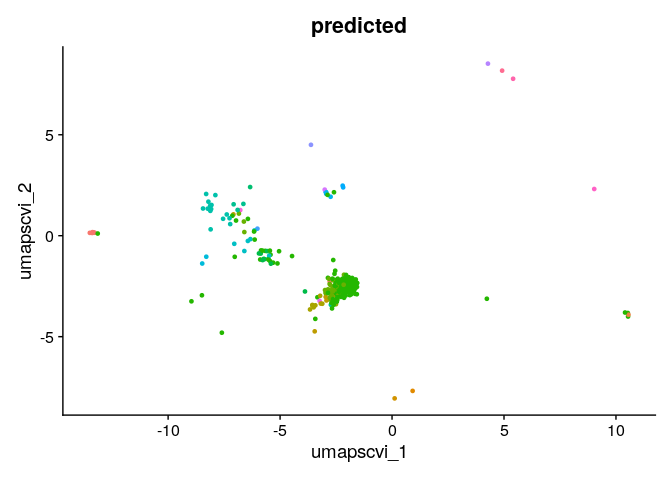
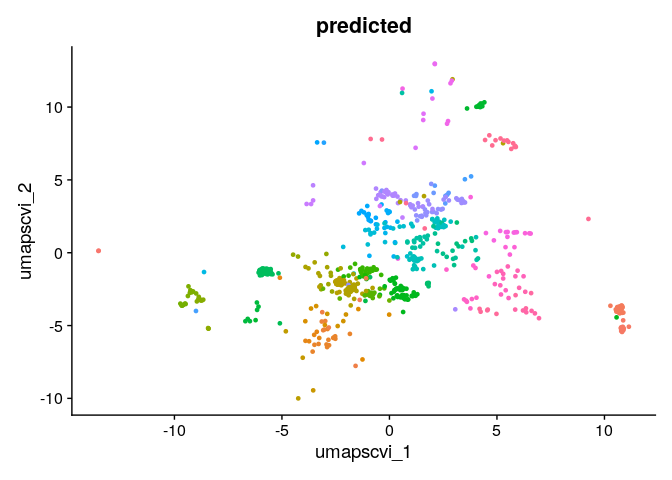
fixed byte related critical bug in python code and updated readme

diff --git a/python/map_scvi.py b/python/map_scvi.py
@@ -26,6 +26,10 @@ adata_query = sc.read_h5ad(query_path)
 str_df = adata_query.obs
 str_df = str_df.applymap(lambda x: x.decode() if isinstance(x, bytes) else x)
 adata_query.obs = str_df
+# same with var slot:
+string_index = pd.Series([i.decode('UTF-8') if isinstance(i, bytes) else i for i in adata_query.var.index.to_list()])
+adata_query.var = adata_query.var.assign(features=string_index.values)
+adata_query.var = adata_query.var.set_index(keys=string_index)
 
 #print("online update")
 model_path = str(model_path)
@@ -35,7 +39,7 @@ print("using model stored at: "+model_path)
 vae_q = scvi.model.SCVI.load_query_data(
     adata_query,
     model_path, # get model directly from disk!
-    inplace_subset_query_vars=False
+    inplace_subset_query_vars=True
 )
 # train --> how many epochs ?
 print("Training with disabled error bar.")

diff --git a/README.md b/README.md
@@ -65,42 +65,33 @@ names(query_seurat_object@reductions)
 #> NULL
 ```
 
-TODO: There seems to be a critical bug in the package: The tesdata does
-not produce the expected result!
-
 This wrapper function executes all required mapping steps. We provide
 the query object as well as a column from HypoMap which we want to
 predict.
 
 ``` r
-table(query_seurat_object@meta.data$predicted)
+head(sort(table(query_seurat_object@meta.data$predicted),decreasing = TRUE),n = 20)
 #> 
-#>                               Gnrh1                           Oxt.Smim3 
-#>                                   9                                   1 
-#>             Slc17a6.Fezf1.Cd40.Esr1       Slc17a6.Fezf1.Cd40.Gldn.Smim3 
-#>                                   1                                   1 
-#>   Slc17a6.Fezf1.Ifi27l2a.Foxp2.Lmo3 Slc17a6.Fezf1.Ifi27l2a.Foxp2.Prdm13 
-#>                                   6                                   7 
-#>     Slc17a6.Foxb1.Pitx2.Ctxn3.Postn      Slc17a6.Foxb1.Pitx2.Sepp1.Mobp 
-#>                                   1                                  78 
-#>   Slc17a6.Foxb1.Pitx2.Sepp1.Slc7a10             Slc17a6.Nrn1.Tbr1.Shox2 
-#>                                 688                                   9 
-#>  Slc17a6.Ppp1r1b.Crym.Adora2a.Meis2      Slc17a6.Ppp1r1b.Crym.Tac1.Drd1 
-#>                                   1                                   4 
-#>     Slc17a6.Ppp1r1b.Crym.Tac1.Prok2               Slc17a6.Ppp1r1b.Meis2 
-#>                                  15                                   7 
-#>               Slc32a1.Arx.Lhx6.Ngfr                Slc32a1.Arx.Lhx6.Npy 
-#>                                   2                                   4 
-#>          Slc32a1.Arx.St18.Nfix.Lhx8              Slc32a1.Hmx2.Gsx1.Ghrh 
-#>                                   2                                   1 
-#>              Slc32a1.Hmx2.Lef1.Prph         Slc32a1.Otp.Npy.Agrp.Gm8773 
-#>                                   1                                   1 
-#>                Slc32a1.Otp.Npy.Sox6          Slc32a1.Satb2.Fam159b.Nfix 
-#>                                   1                                   1 
-#>                    Slc32a1.Six6.Vip                   Slc32a1.Tbx3.Tac2 
-#>                                   1                                   1 
-#>      Slc32a1.Tbx3.Tcf7l2.Pomc.Anxa2        Slc32a1.Tbx3.Tcf7l2.Pomc.Ttr 
-#>                                   1                                   1
+#>           Slc17a6.Nrn1.Tbr1.Shox2    Slc17a6.Foxb1.Pitx2.Sepp1.Mobp 
+#>                               141                                61 
+#>             Slc17a6.Nrn1.Sim1.Trh Slc17a6.Foxb1.Pitx2.Sepp1.Slc7a10 
+#>                                53                                49 
+#>                         Oxt.Smim3        Slc32a1.Hmx2.Hmx3.Prok2.Th 
+#>                                45                                25 
+#>        Slc17a6.Nrn1.Sim1.Ebf3.Crh       Slc32a1.Arx.Gad2.Sp9.Fbxw13 
+#>                                23                                22 
+#>                  Slc17a6.Nrn1.Sst             Slc32a1.Arx.Gad2.Sncg 
+#>                                20                                18 
+#>                          Oxt.Ebf3        Slc17a6.Nrn1.Sim1.Ebf1.Otp 
+#>                                15                                14 
+#>          Slc32a1.Arx.St18.Tmem215             Slc32a1.Hmx2.Hmx3.Nts 
+#>                                14                                14 
+#>      Slc32a1.Hmx2.Hmx3.Pmaip1.Gal   Slc17a6.Fezf1.Cd40.Nr5a1.Gpr149 
+#>                                14                                13 
+#>    Slc32a1.Arx.Gad2.Meis2.Slc30a3    Slc32a1.Tbx3.Tcf7l2.Pomc.Anxa2 
+#>                                11                                11 
+#>   Slc32a1.Arx.Gad2.Onecut2.Adarb2       Slc32a1.Hmx2.Hmx3.Prok2.Nts 
+#>                                10                                10
 ```
 
 ``` r
